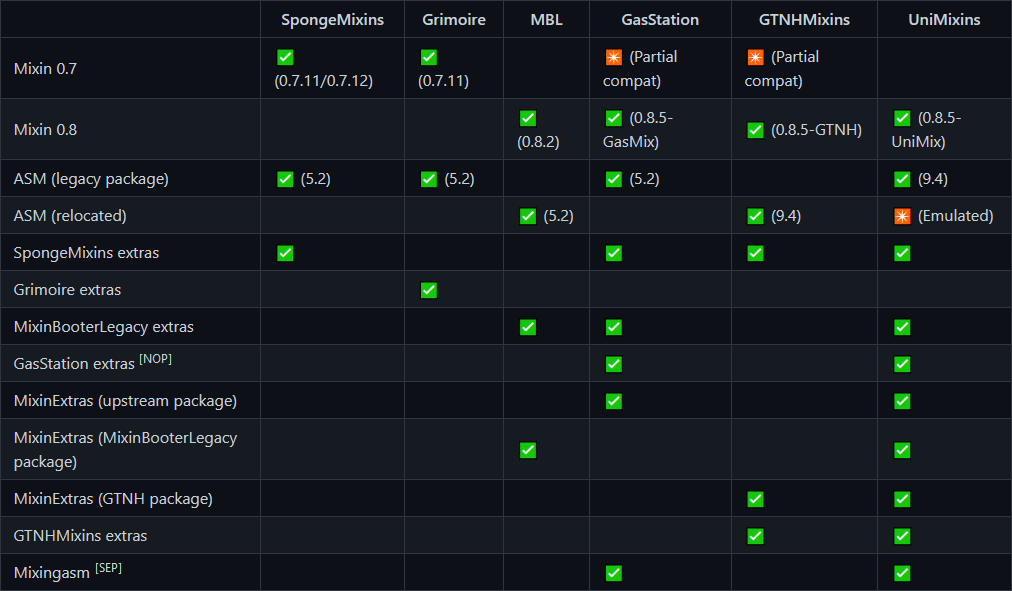
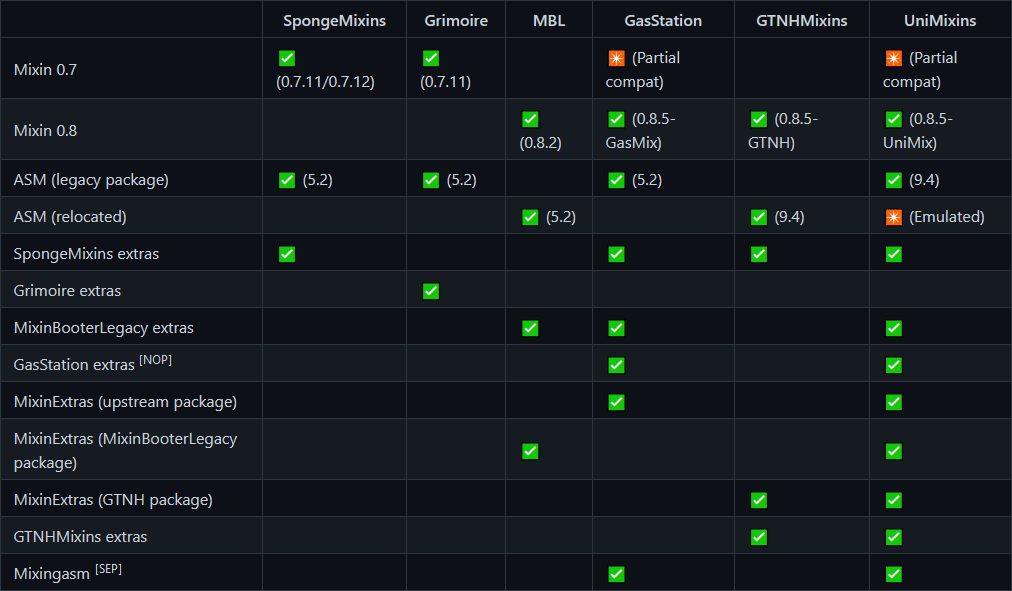
Let's try that again [skip ci]

diff --git a/docs/comparison-chart.md b/docs/comparison-chart.md
@@ -1,8 +1,8 @@
 |   | SpongeMixins | Grimoire | MBL | GasStation | GTNHMixins | UniMixins |
 | -- | -- | -- | -- | -- | -- | -- |
-| Mixin 0.7 | ✅ (0.7.11/0.7.12) | ✅ (0.7.11) | | ✴ (Partial compat)  | ✴ (Partial compat) |
-| Mixin 0.8 | | | ✅ (0.8.2) | ✅ (0.8.5-GasMix) | ✅ (0.8.5-GTNH)| ✅ (0.8.5-UniMix)
-| ASM (legacy package) | ✅ (5.2) | ✅ (5.2) | | ✅ (5.2) || ✅ (9.4) |
+| Mixin 0.7 | ✅ (0.7.11/0.7.12) | ✅ (0.7.11) | | ✴ (Partial compat) | | ✴ (Partial compat) |
+| Mixin 0.8 | | | ✅ (0.8.2) | ✅ (0.8.5-GasMix) | ✅ (0.8.5-GTNH) | ✅ (0.8.5-UniMix)
+| ASM (legacy package) | ✅ (5.2) | ✅ (5.2) | | ✅ (5.2) | | ✅ (9.4) |
 | ASM (relocated) | | | ✅ (5.2) | | ✅ (9.4) | ✴ (Emulated) |
 | SpongeMixins extras | ✅ | | | ✅ | ✅ | ✅ |
 | Grimoire extras | | ✅ | | | | |
